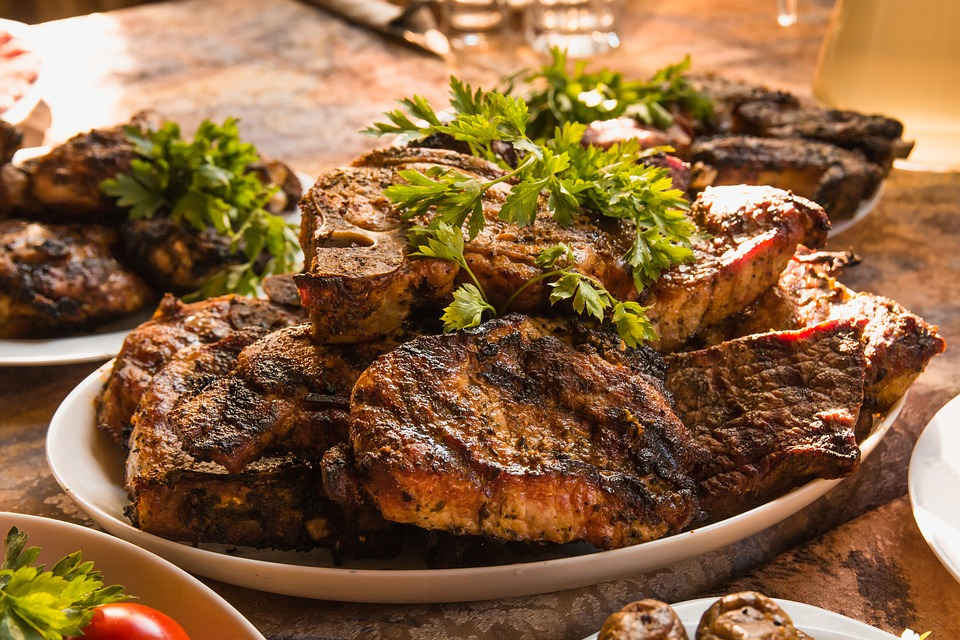
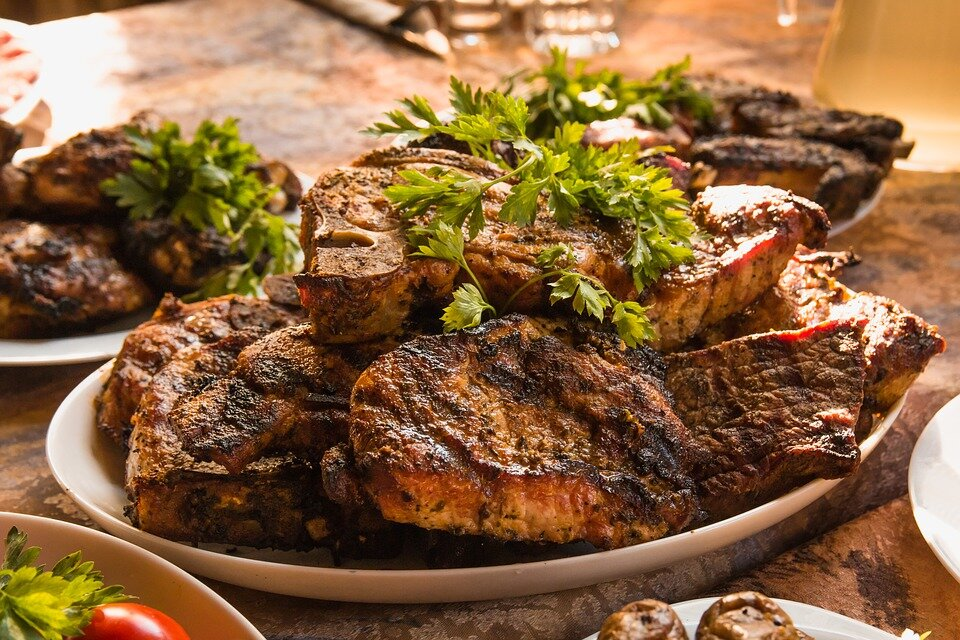
Added lazy loading to recipes page images, compressed some images and added lighthouse results to readme

Changed region(s): [[0.7812, 0.3125, 0.8125, 0.3438]]

diff --git a/templates/recipes.html b/templates/recipes.html
@@ -55,7 +55,7 @@
          <div class="col m6 s12">
             <div class="card">
                <div class="card-image waves-effect waves-block waves-light">
-                  <img class="activator" src="{{ snack.image_url }}" alt="{{ snack.recipe_name}}">
+                  <img class="activator" load="lazy" src="{{ snack.image_url }}" alt="{{ snack.recipe_name}}">
                </div>
                <div class="card-content">
                   <span class="card-title activator grey-text text-darken-4">{{ snack.recipe_name }}<i class="fas fa-ellipsis-v right"></i></span>
@@ -112,7 +112,7 @@
          <div class="col m6 s12">
             <div class="card">
                <div class="card-image waves-effect waves-block waves-light">
-                  <img class="activator" src="{{ main.image_url }}">
+                  <img class="activator" load="lazy" src="{{ main.image_url }}">
                </div>
                <div class="card-content">
                   <span class="card-title activator grey-text text-darken-4">{{ main.recipe_name }}<i class="fas fa-ellipsis-v right"></i></span>
@@ -169,7 +169,7 @@
                 <div class="col m6 s12">
                     <div class="card">
                         <div class="card-image waves-effect waves-block waves-light">
-                            <img class="activator" src="{{ dessert.image_url }}">
+                            <img class="activator" load="lazy" src="{{ dessert.image_url }}">
                         </div>
                         <div class="card-content">
                             <span class="card-title activator grey-text text-darken-4">{{ dessert.recipe_name }}<i class="fas fa-ellipsis-v right"></i></span>
@@ -244,7 +244,7 @@
                <p class="subheading-text goldman center-align list-title">{{ recipe.recipe_name }}</p>
             </div>
             <div class="col s6 center-align">
-               <img src="{{ recipe.image_url}}" alt="{{recipe.recipe_name}}" class="recipe-pic adjust-size ">
+               <img src="{{ recipe.image_url}}" alt="{{recipe.recipe_name}}" load="lazy" class="recipe-pic adjust-size ">
             </div>
          </div>
       </div>

diff --git a/templates/base.html b/templates/base.html
@@ -70,6 +70,6 @@
       <!--MATERIALISE JS SCRIPT..........................................-->
       <script src="https://cdnjs.cloudflare.com/ajax/libs/materialize/1.0.0/js/materialize.min.js"></script>
       <!--CUSTOM JAVASCRIPT WRITTEN FOR PROJECT.............................-->
-      <script src="{{ url_for('static', filename='js/script.js') }}"></script>
+      <script src="{{ url_for('static', filename='js/script.js') }}"></script>      
    </body>
 </html>
